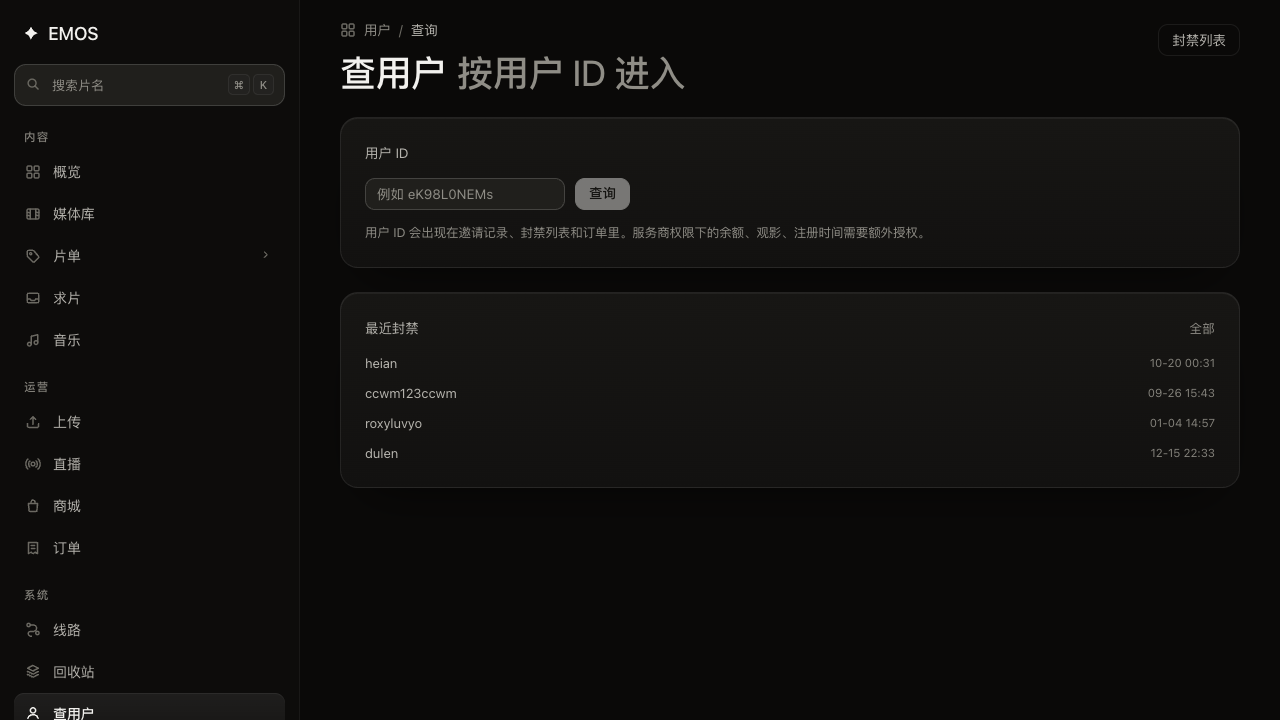
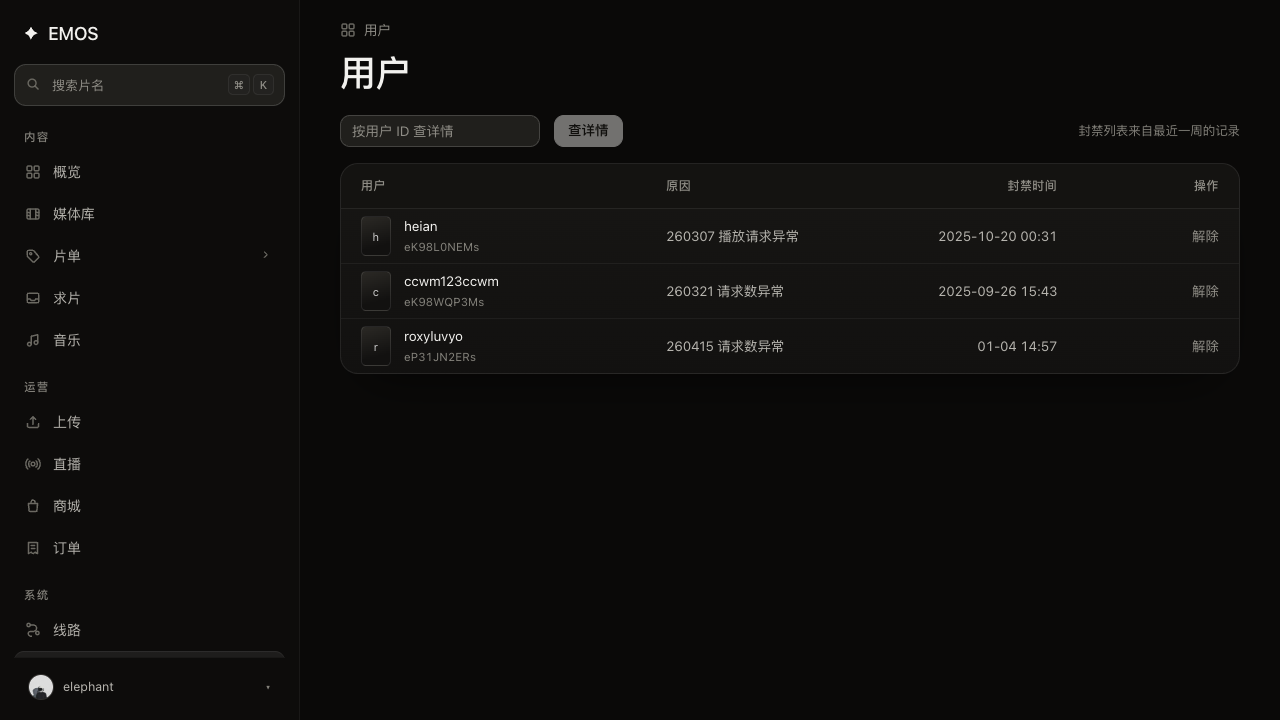
refactor(users): 从「一个输入框 + 5 条封禁」改成真正的列表页
原页面最贵的位置是一个输入框，下面只挂 5 条封禁（还被截断），
页头「封禁列表」和卡头「全部」都链回 /users 自己。

改为：标题「用户」+ 工具栏（按 ID 查详情的输入框）+ 完整封禁表
（用户 / 原因 / 封禁时间 / 解除），四态齐全，解除走确认框。
查详情仍是次要动作，放在工具栏里，不占首屏。

diff --git a/src/views/UserSearchView.tsx b/src/views/UserSearchView.tsx
@@ -1,12 +1,16 @@
 import { useState } from 'react'
 import { Link, useNavigate } from '@tanstack/react-router'
 import { PageHeader } from '@/components/PageHeader'
-import { useBanList } from '@/api/queries'
+import { EmptyBlock, ErrorBlock, LoadingBlock } from '@/components/StateBlock'
+import { useAccountMutations, useBanList } from '@/api/queries'
+import { toast } from '@/ui/toast'
+import { confirmDialog } from '@/ui/confirm'
 import { formatRelative } from '@/lib/format'
 
 export function UserSearchView() {
   const navigate = useNavigate()
   const bans = useBanList()
+  const actions = useAccountMutations()
   const [value, setValue] = useState('')
 
   const submit = () => {
@@ -15,74 +19,87 @@ export function UserSearchView() {
     navigate({ to: '/users/$userId', params: { userId: id } })
   }
 
+  const unban = async (userId: string, name: string) => {
+    const ok = await confirmDialog({
+      title: `解除「${name}」的封禁？`,
+      message: '解除后该账号可以正常访问。',
+      confirmText: '解除',
+    })
+    if (!ok) return
+    actions.banChange.mutate({ type: 'unblock', userId }, { onSuccess: () => toast('已解除封禁', 'success') })
+  }
+
+  const rows = bans.data ?? []
+
   return (
     <>
-      <PageHeader
-        crumb={['用户', '查询']}
-        title="查用户"
-        tools={
-          <Link className="btn btn--ghost" to="/users">
-            封禁列表
-          </Link>
-        }
-      />
+      <PageHeader crumb={['用户']} title="用户" />
 
-      <section className="cards" style={{ gridTemplateColumns: 'minmax(0, 1fr)' }}>
-        <article className="card">
-          <div className="card-head">
-            <p className="stat__label" style={{ margin: 0 }}>用户 ID</p>
-          </div>
-          <div className="card-body">
-            <div style={{ display: 'flex', gap: 10 }}>
-              <input
-                className="input"
-                value={value}
-                placeholder="例如 eK98L0NEMs"
-                onChange={(event) => setValue(event.target.value)}
-                onKeyDown={(event) => {
-                  if (event.key === 'Enter') submit()
-                }}
-              />
-              <button className="btn btn--primary" disabled={!value.trim()} onClick={submit}>
-                查询
-              </button>
-            </div>
-            <p className="card-note" style={{ marginTop: 'var(--stack)' }}>
-              用户 ID 会出现在邀请记录、封禁列表和订单里。服务商权限下的余额、观影、注册时间需要额外授权。
-            </p>
-          </div>
-        </article>
-      </section>
+      <div className="toolbar">
+        <input
+          className="input"
+          style={{ maxWidth: 280 }}
+          value={value}
+          placeholder="按用户 ID 查详情"
+          aria-label="按用户 ID 查详情"
+          onChange={(event) => setValue(event.target.value)}
+          onKeyDown={(event) => {
+            if (event.key === 'Enter') submit()
+          }}
+        />
+        <button className="btn btn--primary" disabled={!value.trim()} onClick={submit}>
+          查详情
+        </button>
+        <span className="spacer" />
+        <span className="head-note">封禁列表来自最近一周的记录</span>
+      </div>
 
-      <section className="cards" style={{ gridTemplateColumns: 'minmax(0, 1fr)' }}>
-        <article className="card">
-          <div className="card-head">
-            <p className="stat__label" style={{ margin: 0 }}>最近封禁</p>
-            <Link className="btn btn--quiet" to="/users">
-              全部
-            </Link>
-          </div>
-          <div className="card-body">
-            {bans.isLoading ? <p className="card-note">读取中…</p> : null}
-            {bans.error ? <p className="card-note">取不到封禁列表，稍后再试～</p> : null}
-            {bans.data && bans.data.length === 0 ? <p className="card-note">目前没有封禁中的用户。</p> : null}
-            <ul style={{ display: 'grid', gap: 10 }}>
-              {(bans.data ?? []).slice(0, 5).map((row) => (
-                <li key={row.user_id} style={{ display: 'flex', alignItems: 'center', gap: 10, fontSize: 13 }}>
-                  <Link
-                    to="/users/$userId"
-                    params={{ userId: row.user_id }}
-                    style={{ color: 'var(--fg-2)', flex: 1, minWidth: 0, overflow: 'hidden', textOverflow: 'ellipsis', whiteSpace: 'nowrap' }}
-                  >
-                    {row.username ?? row.user_id}
-                  </Link>
-                  <span className="muted" style={{ fontSize: 11.5 }}>{formatRelative(row.created_at)}</span>
-                </li>
+      {bans.error ? <ErrorBlock error={bans.error as Error & { status?: number }} onRetry={() => bans.refetch()} /> : null}
+      {bans.isLoading ? <LoadingBlock rows={4} columns={3} /> : null}
+      {!bans.isLoading && !bans.error && rows.length === 0 ? <EmptyBlock title="没有封禁中的用户" /> : null}
+
+      {rows.length > 0 ? (
+        <div className="table-card content-in" key={rows.length}>
+          <table className="table table--fixed">
+            <thead>
+              <tr>
+                <th style={{ width: '34%' }}>用户</th>
+                <th style={{ width: '30%' }}>原因</th>
+                <th className="num" style={{ width: '18%' }}>封禁时间</th>
+                <th style={{ width: '96px', textAlign: 'right' }}>操作</th>
+              </tr>
+            </thead>
+            <tbody>
+              {rows.map((row) => (
+                <tr key={row.user_id}>
+                  <td>
+                    <div className="cell-title">
+                      <span className="thumb">{(row.username ?? row.user_id).slice(0, 1)}</span>
+                      <span>
+                        <Link to="/users/$userId" params={{ userId: row.user_id }} className="cell-title__name">
+                          {row.username ?? row.user_id}
+                        </Link>
+                        <span className="cell-title__code">{row.user_id}</span>
+                      </span>
+                    </div>
+                  </td>
+                  <td className="muted ellipsis">{row.disable_reason ?? '—'}</td>
+                  <td className="num muted">{formatRelative(row.created_at)}</td>
+                  <td style={{ textAlign: 'right' }}>
+                    <button
+                      className="btn btn--quiet"
+                      disabled={actions.banChange.isPending}
+                      onClick={() => unban(row.user_id, row.username ?? row.user_id)}
+                    >
+                      解除
+                    </button>
+                  </td>
+                </tr>
               ))}
-            </ul>
-          </div>
-        </article>
-      </section>
+            </tbody>
+          </table>
+        </div>
+      ) : null}
     </>
   )
 }
